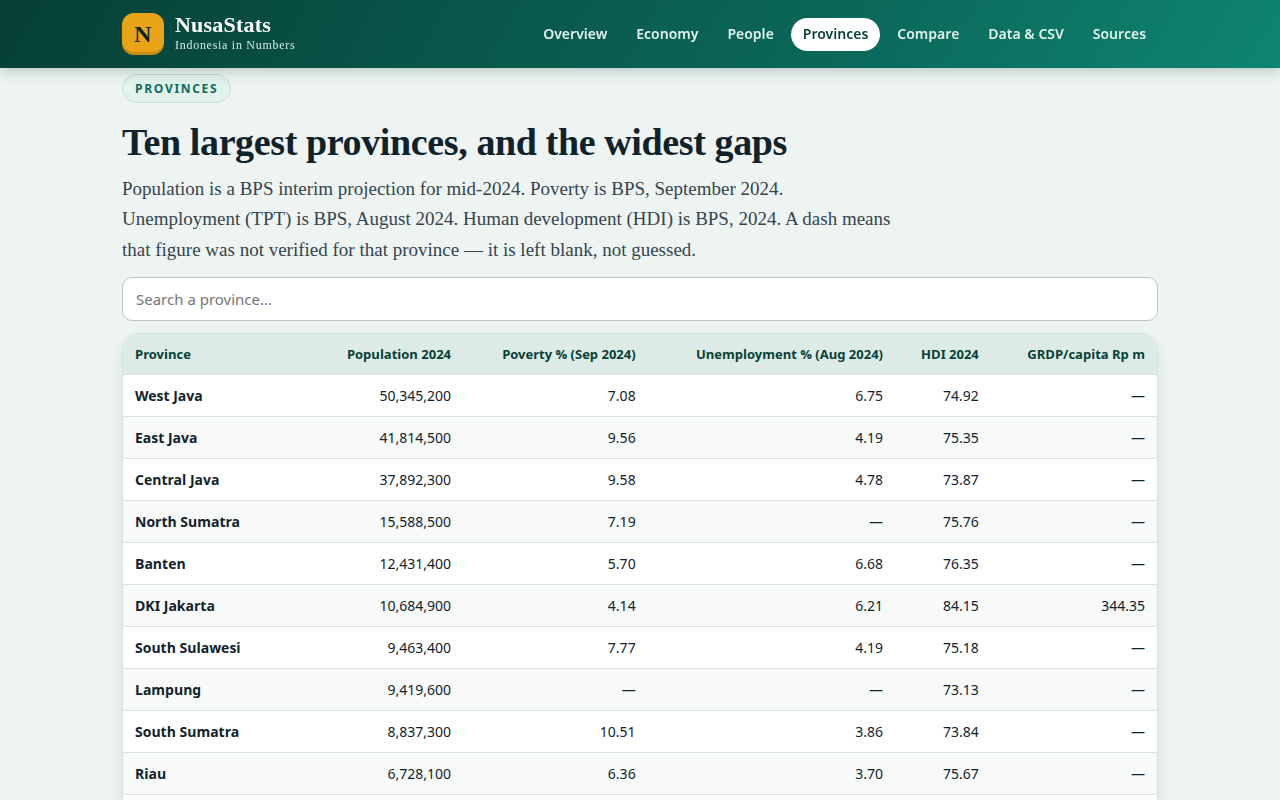
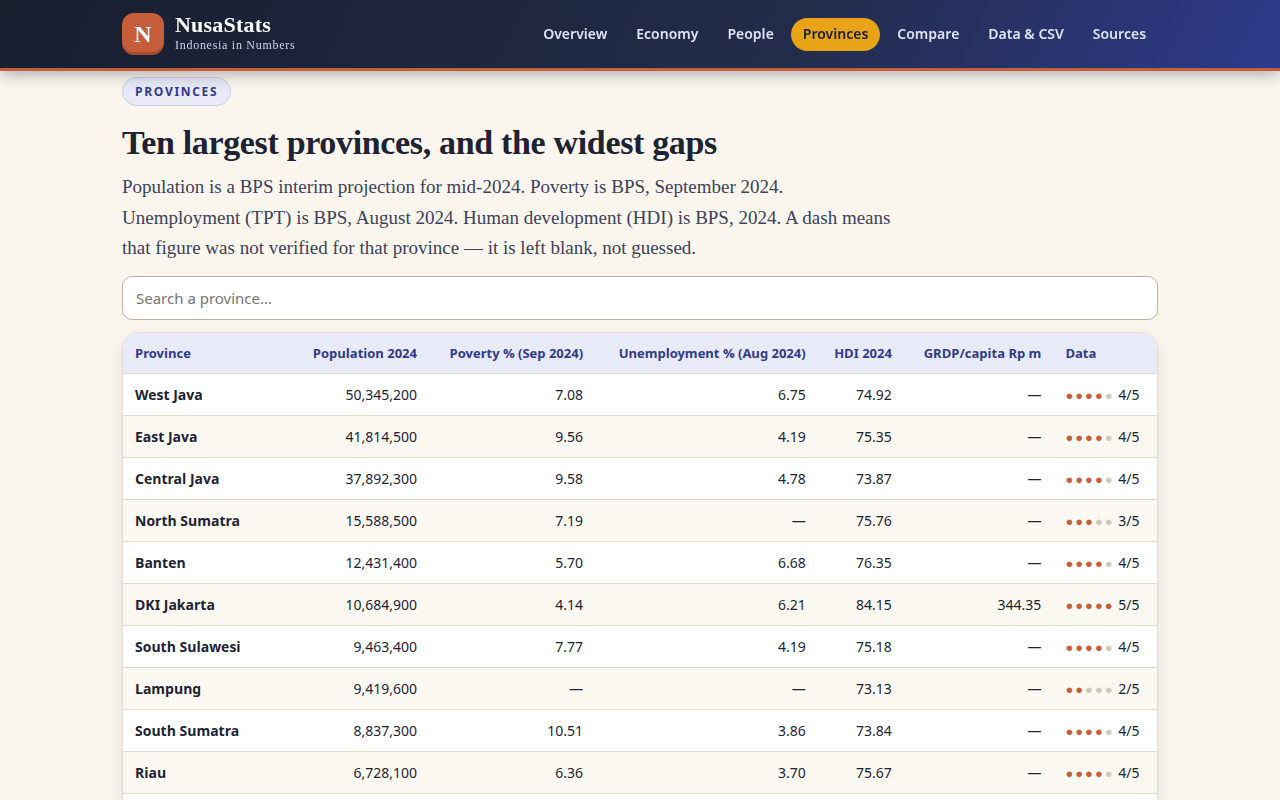
NusaStats total retheme: Deep Slate/Indigo + Terracotta/Amber, at-a-glance strip, compare gap summary, province data-completeness dots

diff --git a/app/style.css b/app/style.css
@@ -1,80 +1,97 @@
 :root{
-  --ink:#10222b; --muted:#54666f; --line:#d8e4de; --bg:#eef4f1; --card:#ffffff;
-  --teal:#0b6b5c; --teal-dark:#063f36; --teal-mid:#0e8570; --teal-soft:#e2f2ec;
-  --amber:#e8a317; --amber-soft:#fdf3d7; --blue:#1d6fb8; --red:#b3261e; --green:#177a44;
-  --radius:16px; --shadow:0 1px 2px rgba(16,34,43,.06),0 6px 18px rgba(16,34,43,.07);
+  --ink:#1d2333; --muted:#5a6478; --line:#e2ddcf; --bg:#faf6ee; --card:#fffdf8;
+  --slate:#171e2e; --indigo:#2e3a8c; --indigo-mid:#3b4cc0; --indigo-soft:#e8eaf7;
+  --terra:#c65d3b; --terra-dark:#a84a2c; --amber:#e8a317; --amber-soft:#fdf3d7;
+  --green:#177a44; --red:#b3261e; --radius:16px; --shadow:0 1px 2px rgba(23,30,46,.07),0 8px 22px rgba(23,30,46,.08);
 }
 *{box-sizing:border-box}
 body{margin:0;font-family:Georgia,"Times New Roman",serif;background:var(--bg);color:var(--ink);line-height:1.6}
 .wrap{max-width:1080px;margin:0 auto;padding:0 22px}
-a{color:var(--teal);text-underline-offset:2px}
-.top{background:linear-gradient(120deg,var(--teal-dark),var(--teal) 70%,var(--teal-mid));color:#fff;position:sticky;top:0;z-index:5;box-shadow:0 2px 14px rgba(6,63,54,.28)}
+a{color:var(--indigo);text-underline-offset:2px}
+.top{background:linear-gradient(115deg,var(--slate),#232c4a 62%,var(--indigo));color:#fff;position:sticky;top:0;z-index:5;box-shadow:0 3px 16px rgba(23,30,46,.35);border-bottom:3px solid var(--terra)}
 .top-in{display:flex;align-items:center;gap:26px;padding:13px 22px;flex-wrap:wrap}
 .brand{display:flex;align-items:center;gap:11px;color:#fff;text-decoration:none}
-.mark{display:inline-flex;width:42px;height:42px;border-radius:12px;background:var(--amber);color:#10222b;align-items:center;justify-content:center;font:700 24px Georgia,serif;box-shadow:inset 0 -3px 0 rgba(0,0,0,.14)}
+.mark{display:inline-flex;width:42px;height:42px;border-radius:12px;background:var(--terra);color:#fff;align-items:center;justify-content:center;font:700 24px Georgia,serif;box-shadow:inset 0 -3px 0 rgba(0,0,0,.18)}
 .brand strong{display:block;font-size:22px;line-height:1.05;letter-spacing:.01em}
-.brand em{display:block;font-style:normal;font-size:12px;color:#d3ebe1;letter-spacing:.06em}
+.brand em{display:block;font-style:normal;font-size:12px;color:#cdd4f2;letter-spacing:.06em}
 nav{display:flex;gap:5px;flex-wrap:wrap;margin-left:auto}
-nav a{color:#e2f2ec;text-decoration:none;padding:8px 12px;border-radius:999px;font:600 14px/1.2 system-ui,Arial,sans-serif}
+nav a{color:#dfe4fa;text-decoration:none;padding:8px 12px;border-radius:999px;font:600 14px/1.2 system-ui,Arial,sans-serif}
 nav a:hover{background:#ffffff26;color:#fff}
-nav a.on{background:#fff;color:var(--teal-dark)}
+nav a.on{background:var(--amber);color:var(--slate)}
 main{padding:28px 0 48px}
 h1{font-size:34px;line-height:1.12;margin:6px 0 10px;letter-spacing:-.01em}
 h2{font-size:24px;margin:36px 0 8px;padding-top:6px}
-h2::after{content:"";display:block;width:56px;height:4px;border-radius:99px;background:var(--amber);margin-top:8px}
+h2::after{content:"";display:block;width:56px;height:4px;border-radius:99px;background:var(--terra);margin-top:8px}
 h3{font-size:18px;margin:18px 0 6px}
 p{margin:6px 0 12px}
-.lede{font-size:19px;color:#33454f;max-width:780px}
-.kicker{display:inline-block;font:700 12px system-ui,Arial,sans-serif;letter-spacing:.14em;text-transform:uppercase;color:var(--teal);background:var(--teal-soft);border:1px solid #c4e0d5;border-radius:999px;padding:5px 12px}
+.lede{font-size:19px;color:#3a4358;max-width:780px}
+.kicker{display:inline-block;font:700 12px system-ui,Arial,sans-serif;letter-spacing:.14em;text-transform:uppercase;color:var(--indigo);background:var(--indigo-soft);border:1px solid #c9cfea;border-radius:999px;padding:5px 12px}
 .src{font:400 12.5px/1.5 system-ui,Arial,sans-serif;color:var(--muted)}
 .note{background:var(--amber-soft);border:1px solid #ecd27a;border-radius:12px;padding:12px 16px;font-size:14px}
 .grid{display:grid;gap:18px}
 .kpis{grid-template-columns:repeat(4,1fr)}
 .card{background:var(--card);border:1px solid var(--line);border-radius:var(--radius);padding:18px 20px;box-shadow:var(--shadow)}
 .card h3{margin:0 0 5px;font:700 12.5px system-ui,Arial,sans-serif;letter-spacing:.06em;text-transform:uppercase;color:var(--muted)}
-.kpis .card{border-top:4px solid var(--teal);padding:14px 18px 12px}
-.big{font-size:30px;line-height:1.08;font-weight:700;letter-spacing:-.01em}
+.kpis .card{border-top:4px solid var(--indigo);padding:14px 18px 12px}
+.big{font-size:30px;line-height:1.08;font-weight:700;letter-spacing:-.01em;color:var(--slate)}
 .delta{font:600 13px system-ui,Arial,sans-serif}
 .pill{display:inline-block;border-radius:999px;padding:3px 10px;font:700 12.5px system-ui,Arial,sans-serif}
 .pill.up{background:#e2f2e6;color:var(--green)}
 .pill.down{background:#fdeceb;color:var(--red)}
 .pill.flat{background:#eef2f3;color:var(--muted)}
+.pill.terra{background:#fbe9e1;color:var(--terra-dark)}
+.pill.ind{background:var(--indigo-soft);color:var(--indigo)}
 .up{color:var(--green)} .down{color:var(--red)} .flat{color:var(--muted)}
 .spark{margin-top:10px}
 .two{grid-template-columns:1fr 1fr}
 .three{grid-template-columns:repeat(3,1fr)}
+.strip{display:grid;grid-template-columns:repeat(3,1fr);gap:14px;margin:20px 0 6px}
+.strip .item{background:var(--slate);color:#fff;border-radius:var(--radius);padding:16px 18px;box-shadow:var(--shadow)}
+.strip .item:nth-child(2){background:var(--indigo)}
+.strip .item:nth-child(3){background:var(--terra)}
+.strip .lab{font:700 11.5px system-ui,Arial,sans-serif;letter-spacing:.08em;text-transform:uppercase;opacity:.85}
+.strip .val{font-size:21px;font-weight:700;line-height:1.2;margin-top:4px}
+.strip .sub{font:400 13px system-ui,Arial,sans-serif;opacity:.85;margin-top:2px}
 .chart-card{padding:20px 22px}
 .tabs{display:flex;gap:8px;flex-wrap:wrap;margin:16px 0;background:#fff;border:1px solid var(--line);border-radius:999px;padding:5px;width:fit-content;max-width:100%;box-shadow:var(--shadow)}
 .tabs button{border:0;background:transparent;border-radius:999px;padding:8px 14px;font:600 14px system-ui,Arial,sans-serif;cursor:pointer;color:var(--ink)}
-.tabs button.on{background:var(--teal);color:#fff;box-shadow:0 2px 8px rgba(11,107,92,.35)}
+.tabs button.on{background:var(--indigo);color:#fff;box-shadow:0 2px 8px rgba(46,58,140,.35)}
 .chart{width:100%;height:auto;display:block}
-.axis{font:12px system-ui,Arial,sans-serif;fill:#5b6b76}
-.axis-val{font:700 12px system-ui,Arial,sans-serif;fill:var(--teal-dark)}
+.axis{font:12px system-ui,Arial,sans-serif;fill:#5a6478}
+.axis-val{font:700 12px system-ui,Arial,sans-serif;fill:var(--slate)}
 .table-wrap{overflow-x:auto;background:#fff;border:1px solid var(--line);border-radius:var(--radius);box-shadow:var(--shadow)}
 .table-wrap table{border-radius:0}
 table{width:100%;border-collapse:collapse;background:#fff;font:14px system-ui,Arial,sans-serif}
 th,td{padding:11px 12px;border-bottom:1px solid var(--line);text-align:left}
-thead th{position:sticky;top:0;background:#dcebe5;color:var(--teal-dark);font-size:13px;cursor:pointer;white-space:nowrap}
-tbody tr:nth-child(even) td{background:#f7faf8}
+thead th{position:sticky;top:0;background:var(--indigo-soft);color:var(--indigo);font-size:13px;cursor:pointer;white-space:nowrap}
+tbody tr:nth-child(even) td{background:#fbf9f2}
 td.num,th.num{text-align:right;font-variant-numeric:tabular-nums}
-tr:hover td{background:#eef6f2}
-input,select{font:400 15px system-ui,Arial,sans-serif;padding:11px 13px;border:1.5px solid #b9c6cb;border-radius:10px;background:#fff;color:var(--ink);width:100%}
-input:focus,select:focus{outline:3px solid #bfe3d6;border-color:var(--teal)}
+tr:hover td{background:#f0eefc}
+.dots{letter-spacing:2px;font-size:13px;white-space:nowrap}
+.dots .on{color:var(--terra)} .dots .off{color:#cfc9b8}
+input,select{font:400 15px system-ui,Arial,sans-serif;padding:11px 13px;border:1.5px solid #b9b4a4;border-radius:10px;background:#fff;color:var(--ink);width:100%}
+input:focus,select:focus{outline:3px solid #c9cfea;border-color:var(--indigo)}
 label{font:700 13px system-ui,Arial,sans-serif;display:block;margin:12px 0 5px}
-button.btn{background:var(--teal);color:#fff;border:0;border-radius:10px;padding:12px 20px;font:700 15px system-ui,Arial,sans-serif;cursor:pointer;box-shadow:0 3px 10px rgba(11,107,92,.28)}
-button.btn:hover{background:var(--teal-dark)}
-button.ghost{background:#fff;color:var(--teal);border:1.5px solid var(--teal);box-shadow:none}
+button.btn{background:var(--indigo);color:#fff;border:0;border-radius:10px;padding:12px 20px;font:700 15px system-ui,Arial,sans-serif;cursor:pointer;box-shadow:0 3px 10px rgba(46,58,140,.3)}
+button.btn:hover{background:var(--slate)}
+button.ghost{background:#fff;color:var(--indigo);border:1.5px solid var(--indigo);box-shadow:none}
+button.warm{background:var(--terra);box-shadow:0 3px 10px rgba(198,93,59,.3)}
+button.warm:hover{background:var(--terra-dark)}
 .bar-row{display:grid;grid-template-columns:170px 1fr 84px;gap:12px;align-items:center;margin:9px 0;font:14px system-ui,Arial,sans-serif}
-.bar{height:20px;background:#e6efe9;border-radius:99px;overflow:hidden;box-shadow:inset 0 1px 3px rgba(16,34,43,.12)}
-.bar i{display:block;height:100%;background:linear-gradient(90deg,var(--teal-mid),var(--teal));border-radius:99px}
-.bar i.b{background:linear-gradient(90deg,#3a8fd0,var(--blue))}
+.bar{height:20px;background:#ece9dd;border-radius:99px;overflow:hidden;box-shadow:inset 0 1px 3px rgba(23,30,46,.12)}
+.bar i{display:block;height:100%;background:linear-gradient(90deg,var(--indigo-mid),var(--indigo));border-radius:99px}
+.bar i.b{background:linear-gradient(90deg,#d97a52,var(--terra))}
 .legend{font:13px system-ui,Arial,sans-serif;color:var(--muted)}
-.callout{border-left:5px solid var(--amber);background:#fff;padding:14px 18px;border-radius:0 12px 12px 0;box-shadow:var(--shadow)}
-footer{background:#10222b;color:#b9cdd2;padding:30px 0 38px;font:13px/1.6 system-ui,Arial,sans-serif}
+.callout{border-left:5px solid var(--terra);background:#fff;padding:14px 18px;border-radius:0 12px 12px 0;box-shadow:var(--shadow)}
+.diff{border:1px solid var(--line);border-left:5px solid var(--amber);background:#fffdf8;border-radius:12px;padding:16px 18px;box-shadow:var(--shadow);margin-bottom:16px}
+.diff h3{margin:0 0 8px}
+.diff ul{margin:0;padding-left:18px;font:14px/1.7 system-ui,Arial,sans-serif}
+footer{background:var(--slate);color:#b9c0d4;padding:30px 0 38px;font:13px/1.6 system-ui,Arial,sans-serif}
 footer strong{color:#fff}
 @media (max-width:860px){
   .kpis{grid-template-columns:repeat(2,1fr)}
-  .two,.three{grid-template-columns:1fr}
+  .two,.three,.strip{grid-template-columns:1fr}
+  .strip{grid-template-columns:1fr 1fr}
   h1{font-size:29px}
   main{padding:26px 0 36px}
   .top-in{gap:8px;padding:10px 16px}

diff --git a/app/views.js b/app/views.js
@@ -11,9 +11,9 @@ function kpi(key, note) {
   const cls = d > 0 ? "up" : d < 0 ? "down" : "flat";
   const sign = d > 0 ? "+" : "";
   return '<div class="card"><h3>' + ind.label + '</h3><div class="big">' + fmt(v, ind.dec) +
-    ' <span style="font-size:15px;color:#5b6b76">' + ind.unit + "</span></div>" +
+    ' <span style="font-size:15px;color:#5a6478">' + ind.unit + "</span></div>" +
     '<div style="margin:8px 0 2px"><span class="pill ' + cls + '">' + sign + fmt(d, ind.dec) + " since 2015</span></div>" +
-    spark(ind.values) + '<p class="src">' + (note || "World Bank, 2024") + "</p></div>";
+    spark(ind.values, "#2e3a8c") + '<p class="src">' + (note || "World Bank, 2024") + "</p></div>";
 }
 function chartBlock(key, title, blurb) {
   const ind = INDICATORS[key];
@@ -30,9 +30,16 @@ function tableRows(keys) {
 }
 
 export function home() {
+  const withPop = PROVINCES.filter(p => p.pop).sort((a, b) => b.pop - a.pop)[0];
+  const withHdi = PROVINCES.filter(p => p.hdi !== null && p.hdi !== undefined).sort((a, b) => b.hdi - a.hdi)[0];
+  const withPov = PROVINCES.filter(p => p.poverty !== null && p.poverty !== undefined).sort((a, b) => a.poverty - b.poverty)[0];
   return '<p class="kicker">Indonesia · 2015–2024 · World Bank &amp; BPS</p>' +
     "<h1>Indonesia in numbers, without the noise.</h1>" +
     '<p class="lede">NusaStats gathers Indonesia\u2019s headline statistics in one place: the economy, the people, and the provinces — each figure with its source and year, each chart drawn from a ten-year series you can download.</p>' +
+    '<div class="strip">' +
+    '<div class="item"><div class="lab">Largest province</div><div class="val">' + withPop.name + '</div><div class="sub">' + (withPop.pop / 1e6).toFixed(1) + ' million people · BPS, mid-2024</div></div>' +
+    '<div class="item"><div class="lab">Highest human development</div><div class="val">' + withHdi.name + '</div><div class="sub">HDI ' + withHdi.hdi.toFixed(2) + ' · BPS, 2024</div></div>' +
+    '<div class="item"><div class="lab">Lowest poverty</div><div class="val">' + withPov.name + '</div><div class="sub">' + withPov.poverty.toFixed(2) + '% · BPS, Sep 2024</div></div></div>' +
     '<div class="grid kpis">' + kpi("gdp") + kpi("population") + kpi("gdpPcap") + kpi("inflation") + "</div>" +
     '<div class="grid kpis" style="margin-top:14px">' + kpi("growth") + kpi("poverty") + kpi("lifeExp") + kpi("internet") + "</div>" +
     chartBlock("gdp", "The economy, 2015–2024", "GDP rose from US$860.9 billion in 2015 to US$1,396.3 billion in 2024, with one fall — 2020, the pandemic year — in between. Growth returned to about 5% a year from 2022.") +
@@ -60,7 +67,7 @@ export function economy() {
     '<input id="calc-amt" type="number" value="1000000" min="0" step="1000">' +
     '<label for="calc-from">From year</label><select id="calc-from">' + YEARS.map(y => "<option" + (y === 2015 ? " selected" : "") + ">" + y + "</option>").join("") + "</select>" +
     '<label for="calc-to">To year</label><select id="calc-to">' + YEARS.map(y => "<option" + (y === 2024 ? " selected" : "") + ">" + y + "</option>").join("") + "</select>" +
-    '<p style="margin-top:12px"><button class="btn" id="calc-go">Calculate</button></p>' +
+    '<p style="margin-top:12px"><button class="btn warm" id="calc-go">Calculate</button></p>' +
     '<p id="calc-out" aria-live="polite"><strong>Rp 1,000,000 in 2015 ≈ Rp 1,306,000 in 2024</strong> at the CPI rates in this series. Check it: change the years and press Calculate.</p>' +
     '<p class="src">Rates used: 2016 3.53%, 2017 3.81%, 2018 3.20%, 2019 3.03%, 2020 1.92%, 2021 1.56%, 2022 4.21%, 2023 3.67%, 2024 2.18% (World Bank FP.CPI.TOTL.ZG).</p></div>' +
     "<h2>All economy indicators</h2>" + tableRows(["gdp", "growth", "gdpPcap", "gdpPcapPpp", "inflation", "unemployment", "exports", "imports", "agri", "industry", "services"]);
@@ -101,9 +108,11 @@ export function provinces() {
 }
 export function provTable(list) {
   const cell = v => v === null || v === undefined ? "—" : v;
-  return '<div class="table-wrap"><table><thead><tr><th data-s=\'name\'>Province</th><th class=\'num\' data-s=\'pop\'>Population 2024</th><th class=\'num\' data-s=\'poverty\'>Poverty % (Sep 2024)</th><th class=\'num\' data-s=\'tpt\'>Unemployment % (Aug 2024)</th><th class=\'num\' data-s=\'hdi\'>HDI 2024</th><th class=\'num\' data-s=\'grdpPcap\'>GRDP/capita Rp m</th></tr></thead><tbody>' +
-    list.map(p => "<tr><td><strong>" + p.name + "</strong></td><td class='num'>" + (p.pop ? p.pop.toLocaleString("en-US") : "—") + "</td><td class='num'>" + cell(p.poverty === null ? null : p.poverty.toFixed(2)) + "</td><td class='num'>" + cell(p.tpt === null ? null : p.tpt.toFixed(2)) + "</td><td class='num'>" + cell(p.hdi === null ? null : p.hdi.toFixed(2)) + "</td><td class='num'>" + cell(p.grdpPcap === null ? null : p.grdpPcap.toFixed(2)) + "</td></tr>").join("") +
-    "</tbody></table></div><p class='src'>Click a column heading to sort. GRDP per capita is shown only for the five provinces verified at current prices (DKI Jakarta 344.35, East Kalimantan 212.18, North Kalimantan 198.43, Riau 165.35, Riau Islands 161.42 Rp million).</p>";
+  const complete = p => [p.pop, p.poverty, p.tpt, p.hdi, p.grdpPcap].filter(v => v !== null && v !== undefined).length;
+  const dots = p => { const n = complete(p); let s = ""; for (let i = 0; i < 5; i++) s += '<span class="' + (i < n ? "on" : "off") + '">●</span>'; return '<span class="dots">' + s + '</span> ' + n + "/5"; };
+  return '<div class="table-wrap"><table><thead><tr><th data-s=\'name\'>Province</th><th class=\'num\' data-s=\'pop\'>Population 2024</th><th class=\'num\' data-s=\'poverty\'>Poverty % (Sep 2024)</th><th class=\'num\' data-s=\'tpt\'>Unemployment % (Aug 2024)</th><th class=\'num\' data-s=\'hdi\'>HDI 2024</th><th class=\'num\' data-s=\'grdpPcap\'>GRDP/capita Rp m</th><th>Data</th></tr></thead><tbody>' +
+    list.map(p => "<tr><td><strong>" + p.name + "</strong></td><td class='num'>" + (p.pop ? p.pop.toLocaleString("en-US") : "—") + "</td><td class='num'>" + cell(p.poverty === null ? null : p.poverty.toFixed(2)) + "</td><td class='num'>" + cell(p.tpt === null ? null : p.tpt.toFixed(2)) + "</td><td class='num'>" + cell(p.hdi === null ? null : p.hdi.toFixed(2)) + "</td><td class='num'>" + cell(p.grdpPcap === null ? null : p.grdpPcap.toFixed(2)) + "</td><td>" + dots(p) + "</td></tr>").join("") +
+    "</tbody></table></div><p class='src'>Click a column heading to sort. The Data column counts how many of the five figures are verified for that province (● = present, ○ = missing). GRDP per capita is shown only for the five provinces verified at current prices (DKI Jakarta 344.35, East Kalimantan 212.18, North Kalimantan 198.43, Riau 165.35, Riau Islands 161.42 Rp million).</p>";
 }
 
 export function compare() {
@@ -127,7 +136,18 @@ export function cmpHtml(aName, bName) {
       '<div class="bar-row"><span>' + b.name + '</span><span class="bar"><i class="b" style="width:' + bw.toFixed(1) + '%"></i></span><strong>' + disp(bv) + "</strong></div></div>";
   };
   const maxPop = Math.max(a.pop || 0, b.pop || 0) || 1;
-  return row("Population, 2024", a.pop ? a.pop / 1e6 : null, b.pop ? b.pop / 1e6 : null, "million", maxPop / 1e6) +
+  const diffLine = (label, av, bv, unit, dec) => {
+    if (av === null || av === undefined || bv === null || bv === undefined) return "<li><strong>" + label + ":</strong> not comparable — one province is missing a verified figure (—).</li>";
+    const d = bv - av, higher = d > 0 ? b.name : a.name, lower = d > 0 ? a.name : b.name;
+    return "<li><strong>" + label + ":</strong> " + higher + " is higher by " + Math.abs(d).toLocaleString("en-US", { minimumFractionDigits: dec, maximumFractionDigits: dec }) + (unit ? " " + unit : "") + " than " + lower + ".</li>";
+  };
+  const summary = '<div class="diff"><h3>The gap, in one line each</h3><ul>' +
+    diffLine("Population", a.pop ? a.pop / 1e6 : null, b.pop ? b.pop / 1e6 : null, "million", 2) +
+    diffLine("Poverty", a.poverty, b.poverty, "points", 2) +
+    diffLine("Unemployment", a.tpt, b.tpt, "points", 2) +
+    diffLine("HDI", a.hdi, b.hdi, "points", 2) +
+    "</ul></div>";
+  return summary + row("Population, 2024", a.pop ? a.pop / 1e6 : null, b.pop ? b.pop / 1e6 : null, "million", maxPop / 1e6) +
     row("Poverty, Sep 2024", a.poverty, b.poverty, "%", 30) +
     row("Unemployment (TPT), Aug 2024", a.tpt, b.tpt, "%", 7) +
     row("Human Development Index, 2024", a.hdi, b.hdi, "", 85) +

diff --git a/app/charts.js b/app/charts.js
@@ -5,7 +5,7 @@
 import { YEARS } from "./data.js";
 function esc(s) { return String(s).replace(/&/g, "&amp;").replace(/</g, "&lt;"); }
 export function lineChart(values, opts) {
-  const o = Object.assign({ color: "#0b6b5c", w: 680, h: 270, dec: 1, unit: "" }, opts || {});
+  const o = Object.assign({ color: "#2e3a8c", w: 680, h: 270, dec: 1, unit: "" }, opts || {});
   const padL = 60, padR = 14, padT = 26, padB = 30;
   const min = Math.min.apply(null, values), max = Math.max.apply(null, values);
   const span = (max - min) || 1, lo = min - span * 0.14, hi = max + span * 0.14;
@@ -25,7 +25,7 @@ export function lineChart(values, opts) {
   let dots = "";
   values.forEach((v, i) => {
     const last = i === values.length - 1;
-    dots += '<circle cx="' + x(i).toFixed(1) + '" cy="' + y(v).toFixed(1) + '" r="' + (last ? 5 : 3) + '" fill="' + o.color + '"' + (last ? ' stroke="#fff" stroke-width="2"' : "") + '><title>' + YEARS[i] + ": " + fmtV(v) + (o.unit ? " " + esc(o.unit) : "") + "</title></circle>";
+    dots += '<circle cx="' + x(i).toFixed(1) + '" cy="' + y(v).toFixed(1) + '" r="' + (last ? 5.5 : 3) + '" fill="' + (last ? "#c65d3b" : o.color) + '"' + (last ? ' stroke="#fff" stroke-width="2"' : "") + '><title>' + YEARS[i] + ": " + fmtV(v) + (o.unit ? " " + esc(o.unit) : "") + "</title></circle>";
   });
   const endLabel = '<text class="axis-val" x="' + x(values.length - 1).toFixed(1) + '" y="' + (y(values[values.length - 1]) - 12).toFixed(1) + '" text-anchor="end">' + fmtV(values[values.length - 1]) + (o.unit ? " " + esc(o.unit) : "") + " · 2024</text>";
   const startLabel = '<text class="axis" x="' + x(0).toFixed(1) + '" y="' + (y(values[0]) - 10).toFixed(1) + '" text-anchor="start">' + fmtV(values[0]) + " · 2015</text>";
@@ -36,7 +36,7 @@ export function lineChart(values, opts) {
 }
 export function barChart(rows, opts) {
   // rows: [{label, value}] — horizontal bars on a light track, value at the end.
-  const o = Object.assign({ color: "#0b6b5c", w: 680, dec: 1, unit: "" }, opts || {});
+  const o = Object.assign({ color: "#2e3a8c", w: 680, dec: 1, unit: "" }, opts || {});
   const max = Math.max.apply(null, rows.map(r => r.value)) || 1;
   const rowH = 36, h = rows.length * rowH + 10;
   let body = "";
@@ -54,5 +54,5 @@ export function spark(values, color) {
   const span = (max - min) || 1;
   const pts = values.map((v, i) => (i * w / (values.length - 1)).toFixed(1) + "," + (h - 4 - (v - min) / span * (h - 8)).toFixed(1)).join(" ");
   const lastX = w, lastY = h - 4 - (values[values.length - 1] - min) / span * (h - 8);
-  return '<svg class="spark" width="' + w + '" height="' + h + '" viewBox="0 0 ' + w + " " + h + '" aria-hidden="true"><polyline points="' + pts + '" fill="none" stroke="' + (color || "#0b6b5c") + '" stroke-width="2"/><circle cx="' + lastX.toFixed(1) + '" cy="' + lastY.toFixed(1) + '" r="3" fill="' + (color || "#0b6b5c") + '"/></svg>';
+  return '<svg class="spark" width="' + w + '" height="' + h + '" viewBox="0 0 ' + w + " " + h + '" aria-hidden="true"><polyline points="' + pts + '" fill="none" stroke="' + (color || "#2e3a8c") + '" stroke-width="2"/><circle cx="' + lastX.toFixed(1) + '" cy="' + lastY.toFixed(1) + '" r="3" fill="#c65d3b"/></svg>';
 }
